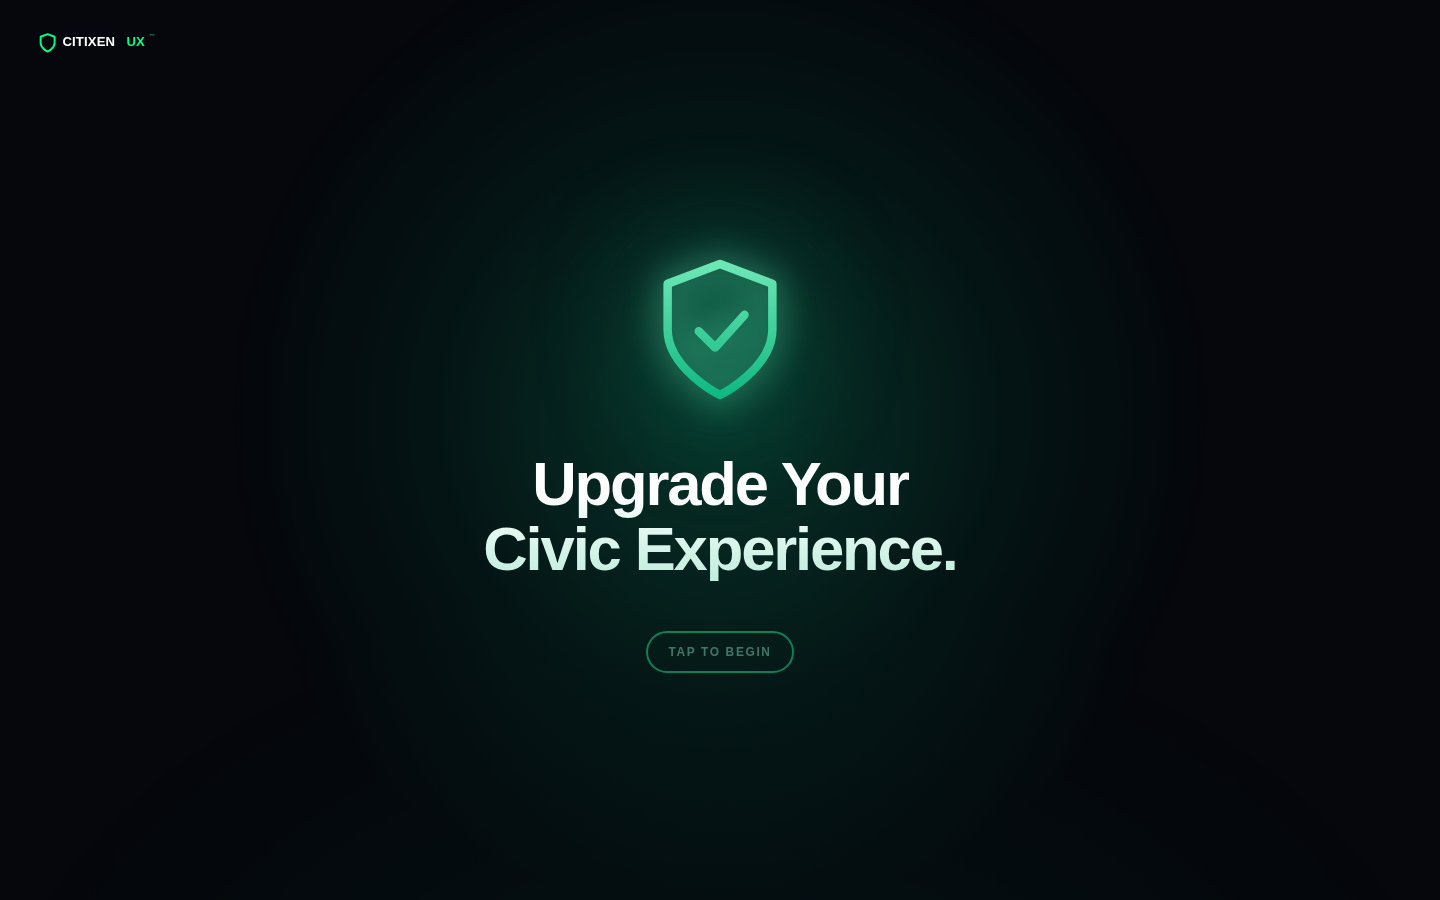
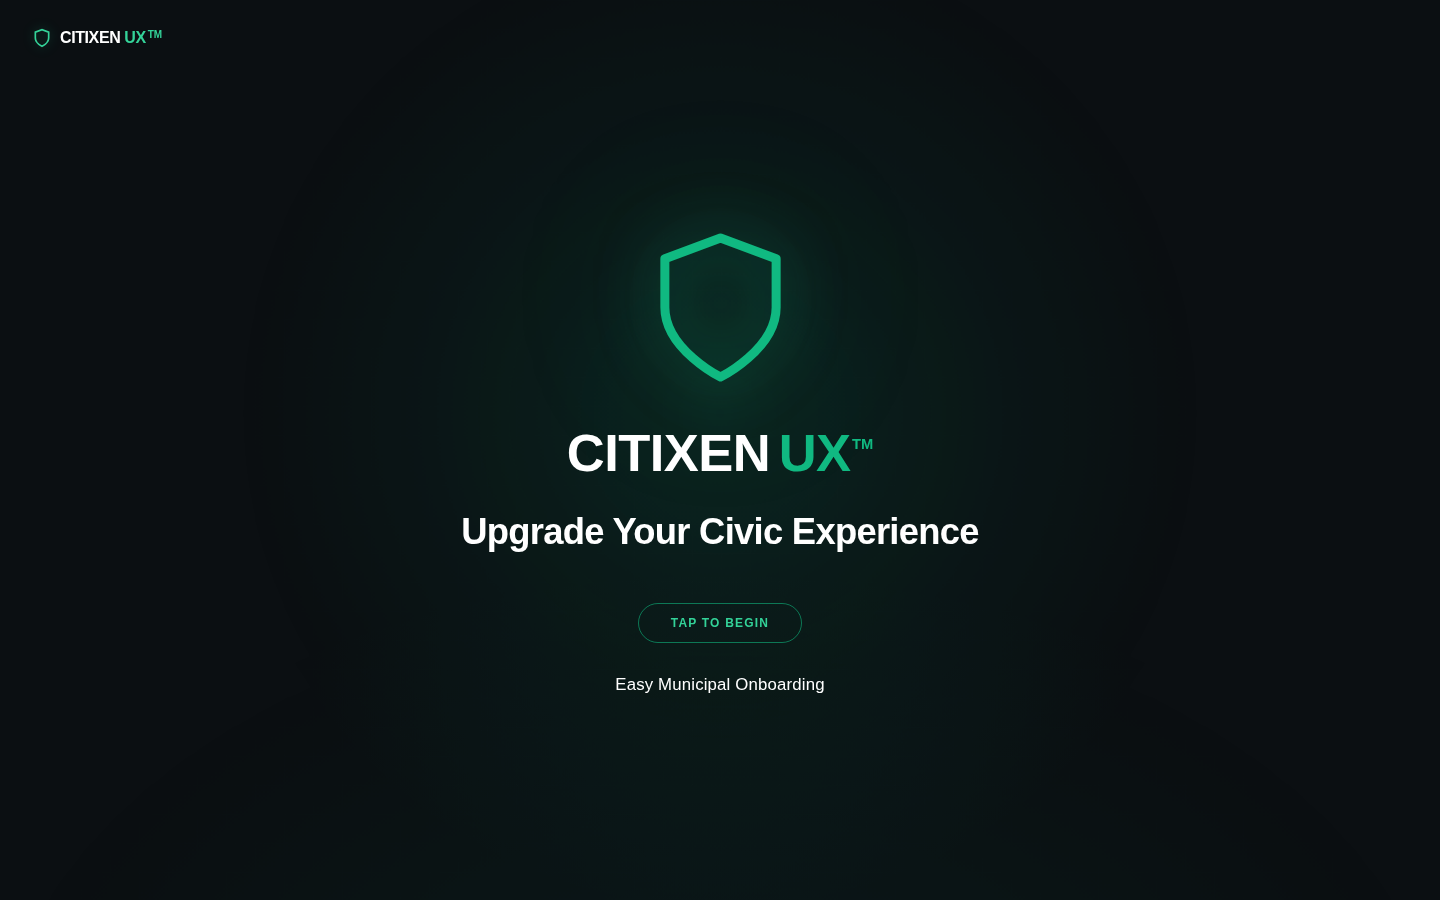
Gateway Screen 2: p-12 card padding, headline/sub spacing, outline-pill CTA shared with Screen 1
Claude-Session: https://claude.ai/code/session_01Pr7YiDeuau7Lt6RzqjTVyU

Changed region(s): [[0.3125, 0.2489, 0.6875, 0.6533], [0.4375, 0.6844, 0.5625, 0.7778], [0.0312, 0.0311, 0.125, 0.0622]]

diff --git a/muni-gateway.html b/muni-gateway.html
@@ -77,18 +77,22 @@ html{background:#05070C}
 @keyframes rise2{from{opacity:0;transform:translateY(14px)}to{opacity:1;transform:none}}
 .slogan{margin:clamp(20px,3.6vmin,34px) 0 0;font:600 clamp(1.5rem,3.6vw,2.6rem)/1.15 var(--sans);letter-spacing:-.02em;color:#fff;text-wrap:balance;animation:rise2 .9s .22s cubic-bezier(.2,.7,.2,1) both}
 .sub{margin:clamp(20px,3.4vmin,30px) 0 0;font:500 clamp(1rem,1.8vw,1.2rem)/1.4 var(--sans);letter-spacing:.01em;color:#fff;animation:rise2 .9s .34s cubic-bezier(.2,.7,.2,1) both}
-.begin{margin-top:clamp(30px,5.5vmin,50px);background:transparent;border:1px solid rgba(16,185,129,.6);color:#10B981;padding:10px 32px;border-radius:9999px;font:600 .78rem var(--sans);letter-spacing:.26em;text-transform:uppercase;cursor:pointer;transition:background .25s,box-shadow .25s,color .25s,border-color .25s;animation:rise2 .9s .46s cubic-bezier(.2,.7,.2,1) both}
-.begin:hover,.begin:focus-visible{background:rgba(16,185,129,.12);color:#fff;border-color:#10B981;box-shadow:0 0 24px rgba(16,185,129,.35);outline:none}
+.begin,.tile .go{display:inline-block;background:transparent;border:1px solid rgba(16,185,129,.6);color:#34D399;padding:10px 32px;border-radius:9999px;font:600 12px/1.5 var(--sans);letter-spacing:.1em;text-transform:uppercase;cursor:pointer;box-shadow:none;filter:none;transition:all .2s}
+.begin:hover,.begin:focus-visible,.tile .go:hover,.tile .go:focus-visible{background:rgba(2,44,34,.4);box-shadow:0 0 15px rgba(16,185,129,.25);outline:none;transform:none;filter:none}
+.begin:focus-visible,.tile .go:focus-visible{border-color:#10B981}
+.begin{margin-top:clamp(30px,5.5vmin,50px);animation:rise2 .9s .46s cubic-bezier(.2,.7,.2,1) both}
+.tile .go{margin-top:0}
 .s2wrap{min-height:inherit;display:grid;place-items:center;padding:var(--m)}
 #s2{--m:16px}
 @media (min-width:640px){#s2{--m:56px}}
 @media (min-width:900px) and (min-height:700px){#s2{--m:1.5in}}
-.tile{width:100%;max-width:576px;margin:0 auto;padding:32px;text-align:center;border-radius:16px;
+.tile{width:100%;max-width:576px;margin:0 auto;padding:48px;text-align:center;border-radius:16px;
   background:rgba(15,23,42,.6);border:1px solid rgba(6,78,59,.4);
   box-shadow:0 25px 50px -12px rgba(0,0,0,.25);
   -webkit-backdrop-filter:blur(12px);backdrop-filter:blur(12px)}
+.tile h1:focus{outline:none}
 .tile h1{margin:0;font:600 30px/1.2 var(--sans);letter-spacing:-.025em;color:#fff}
-.tile p.lead{margin:8px 0 0;font:400 14px/1.5 var(--sans);color:#CBD5E1}
+.tile p.lead{margin:16px 0 0;font:400 14px/1.5 var(--sans);color:#CBD5E1}
 .tile p.lead strong{font-weight:700;color:#fff}
 .tl{list-style:none;display:flex;align-items:center;justify-content:space-between;margin:24px 0 0;padding:0 16px 40px}
 .tl .st{position:relative;flex:none;display:block;border-radius:9999px;box-sizing:border-box}
@@ -99,17 +103,13 @@ html{background:#05070C}
 .tl .lt{width:10px;height:10px;background:#020617;border:1px solid #334155}
 .tl .ln{flex:1;height:1px;margin:0 8px;background:rgba(16,185,129,.4);list-style:none}
 .tl .ln.m{background:#1E293B}
-.tile .go{display:inline-block;margin-top:4px;border:0;border-radius:9999px;padding:10px 32px;font:700 16px/1.5 var(--sans);letter-spacing:.02em;text-transform:uppercase;color:#020617;cursor:pointer;
-  background:#10B981;box-shadow:0 0 15px rgba(16,185,129,.3);transition:background .2s,box-shadow .25s,transform .2s}
-.tile .go:hover{background:#34D399;transform:translateY(-1px);box-shadow:0 0 0 4px rgba(16,185,129,.14),0 0 28px rgba(52,211,153,.6)}
-.tile .go:active{transform:none}
-.tile .go:focus-visible{outline:2px solid #6EE7B7;outline-offset:3px}
 .go{border:0;border-radius:14px;padding:16px 46px;font:700 1.05rem var(--sans);letter-spacing:-.01em;color:#04120C;
   background:linear-gradient(180deg,#6EE7B7 0%,#34D399 45%,#10B981 100%);
   box-shadow:0 0 0 1px rgba(255,255,255,.28) inset,0 10px 30px -10px rgba(16,185,129,.7);transition:box-shadow .25s,transform .2s,filter .2s}
 .go:hover{transform:translateY(-2px);filter:brightness(1.06);box-shadow:0 0 0 1px rgba(255,255,255,.35) inset,0 0 0 6px rgba(16,185,129,.16),0 18px 50px -8px rgba(16,185,129,.95),0 0 90px -6px rgba(52,211,153,.7)}
 .go:active{transform:translateY(0)}
 .go:focus-visible{outline:2px solid #6EE7B7;outline-offset:4px}
+@media (max-width:480px){.tile{padding:32px 18px}}
 @media (max-width:640px){.splash{padding-top:84px}}
 
 /* preview bar + header */
@@ -634,7 +634,7 @@ function fromHash(){ return location.hash === '#review' ? 3 : location.hash === 
 function showScreen(n){
   if (n === curScr) return;
   var first = curScr === 0, prev = scr[curScr], next = scr[n];
-  var focusIt = function () { var f = n === 1 ? $('beginBtn') : n === 2 ? $('goBtn') : $('nm'); if (!first && f) f.focus({preventScroll: true}); };
+  var focusIt = function () { var f = n === 1 ? $('beginBtn') : n === 2 ? $('wTitle') : $('nm'); if (!first && f) f.focus({preventScroll: true}); };
   var swap = function () {
     if (prev){ prev.classList.remove('on', 'leaving'); }
     next.classList.add('on'); curScr = n; window.scrollTo(0, 0);

diff --git a/muni/holmen-wi/gateway.html b/muni/holmen-wi/gateway.html
@@ -77,18 +77,22 @@ html{background:#05070C}
 @keyframes rise2{from{opacity:0;transform:translateY(14px)}to{opacity:1;transform:none}}
 .slogan{margin:clamp(20px,3.6vmin,34px) 0 0;font:600 clamp(1.5rem,3.6vw,2.6rem)/1.15 var(--sans);letter-spacing:-.02em;color:#fff;text-wrap:balance;animation:rise2 .9s .22s cubic-bezier(.2,.7,.2,1) both}
 .sub{margin:clamp(20px,3.4vmin,30px) 0 0;font:500 clamp(1rem,1.8vw,1.2rem)/1.4 var(--sans);letter-spacing:.01em;color:#fff;animation:rise2 .9s .34s cubic-bezier(.2,.7,.2,1) both}
-.begin{margin-top:clamp(30px,5.5vmin,50px);background:transparent;border:1px solid rgba(16,185,129,.6);color:#10B981;padding:10px 32px;border-radius:9999px;font:600 .78rem var(--sans);letter-spacing:.26em;text-transform:uppercase;cursor:pointer;transition:background .25s,box-shadow .25s,color .25s,border-color .25s;animation:rise2 .9s .46s cubic-bezier(.2,.7,.2,1) both}
-.begin:hover,.begin:focus-visible{background:rgba(16,185,129,.12);color:#fff;border-color:#10B981;box-shadow:0 0 24px rgba(16,185,129,.35);outline:none}
+.begin,.tile .go{display:inline-block;background:transparent;border:1px solid rgba(16,185,129,.6);color:#34D399;padding:10px 32px;border-radius:9999px;font:600 12px/1.5 var(--sans);letter-spacing:.1em;text-transform:uppercase;cursor:pointer;box-shadow:none;filter:none;transition:all .2s}
+.begin:hover,.begin:focus-visible,.tile .go:hover,.tile .go:focus-visible{background:rgba(2,44,34,.4);box-shadow:0 0 15px rgba(16,185,129,.25);outline:none;transform:none;filter:none}
+.begin:focus-visible,.tile .go:focus-visible{border-color:#10B981}
+.begin{margin-top:clamp(30px,5.5vmin,50px);animation:rise2 .9s .46s cubic-bezier(.2,.7,.2,1) both}
+.tile .go{margin-top:0}
 .s2wrap{min-height:inherit;display:grid;place-items:center;padding:var(--m)}
 #s2{--m:16px}
 @media (min-width:640px){#s2{--m:56px}}
 @media (min-width:900px) and (min-height:700px){#s2{--m:1.5in}}
-.tile{width:100%;max-width:576px;margin:0 auto;padding:32px;text-align:center;border-radius:16px;
+.tile{width:100%;max-width:576px;margin:0 auto;padding:48px;text-align:center;border-radius:16px;
   background:rgba(15,23,42,.6);border:1px solid rgba(6,78,59,.4);
   box-shadow:0 25px 50px -12px rgba(0,0,0,.25);
   -webkit-backdrop-filter:blur(12px);backdrop-filter:blur(12px)}
+.tile h1:focus{outline:none}
 .tile h1{margin:0;font:600 30px/1.2 var(--sans);letter-spacing:-.025em;color:#fff}
-.tile p.lead{margin:8px 0 0;font:400 14px/1.5 var(--sans);color:#CBD5E1}
+.tile p.lead{margin:16px 0 0;font:400 14px/1.5 var(--sans);color:#CBD5E1}
 .tile p.lead strong{font-weight:700;color:#fff}
 .tl{list-style:none;display:flex;align-items:center;justify-content:space-between;margin:24px 0 0;padding:0 16px 40px}
 .tl .st{position:relative;flex:none;display:block;border-radius:9999px;box-sizing:border-box}
@@ -99,17 +103,13 @@ html{background:#05070C}
 .tl .lt{width:10px;height:10px;background:#020617;border:1px solid #334155}
 .tl .ln{flex:1;height:1px;margin:0 8px;background:rgba(16,185,129,.4);list-style:none}
 .tl .ln.m{background:#1E293B}
-.tile .go{display:inline-block;margin-top:4px;border:0;border-radius:9999px;padding:10px 32px;font:700 16px/1.5 var(--sans);letter-spacing:.02em;text-transform:uppercase;color:#020617;cursor:pointer;
-  background:#10B981;box-shadow:0 0 15px rgba(16,185,129,.3);transition:background .2s,box-shadow .25s,transform .2s}
-.tile .go:hover{background:#34D399;transform:translateY(-1px);box-shadow:0 0 0 4px rgba(16,185,129,.14),0 0 28px rgba(52,211,153,.6)}
-.tile .go:active{transform:none}
-.tile .go:focus-visible{outline:2px solid #6EE7B7;outline-offset:3px}
 .go{border:0;border-radius:14px;padding:16px 46px;font:700 1.05rem var(--sans);letter-spacing:-.01em;color:#04120C;
   background:linear-gradient(180deg,#6EE7B7 0%,#34D399 45%,#10B981 100%);
   box-shadow:0 0 0 1px rgba(255,255,255,.28) inset,0 10px 30px -10px rgba(16,185,129,.7);transition:box-shadow .25s,transform .2s,filter .2s}
 .go:hover{transform:translateY(-2px);filter:brightness(1.06);box-shadow:0 0 0 1px rgba(255,255,255,.35) inset,0 0 0 6px rgba(16,185,129,.16),0 18px 50px -8px rgba(16,185,129,.95),0 0 90px -6px rgba(52,211,153,.7)}
 .go:active{transform:translateY(0)}
 .go:focus-visible{outline:2px solid #6EE7B7;outline-offset:4px}
+@media (max-width:480px){.tile{padding:32px 18px}}
 @media (max-width:640px){.splash{padding-top:84px}}
 
 /* preview bar + header */
@@ -634,7 +634,7 @@ function fromHash(){ return location.hash === '#review' ? 3 : location.hash === 
 function showScreen(n){
   if (n === curScr) return;
   var first = curScr === 0, prev = scr[curScr], next = scr[n];
-  var focusIt = function () { var f = n === 1 ? $('beginBtn') : n === 2 ? $('goBtn') : $('nm'); if (!first && f) f.focus({preventScroll: true}); };
+  var focusIt = function () { var f = n === 1 ? $('beginBtn') : n === 2 ? $('wTitle') : $('nm'); if (!first && f) f.focus({preventScroll: true}); };
   var swap = function () {
     if (prev){ prev.classList.remove('on', 'leaving'); }
     next.classList.add('on'); curScr = n; window.scrollTo(0, 0);
